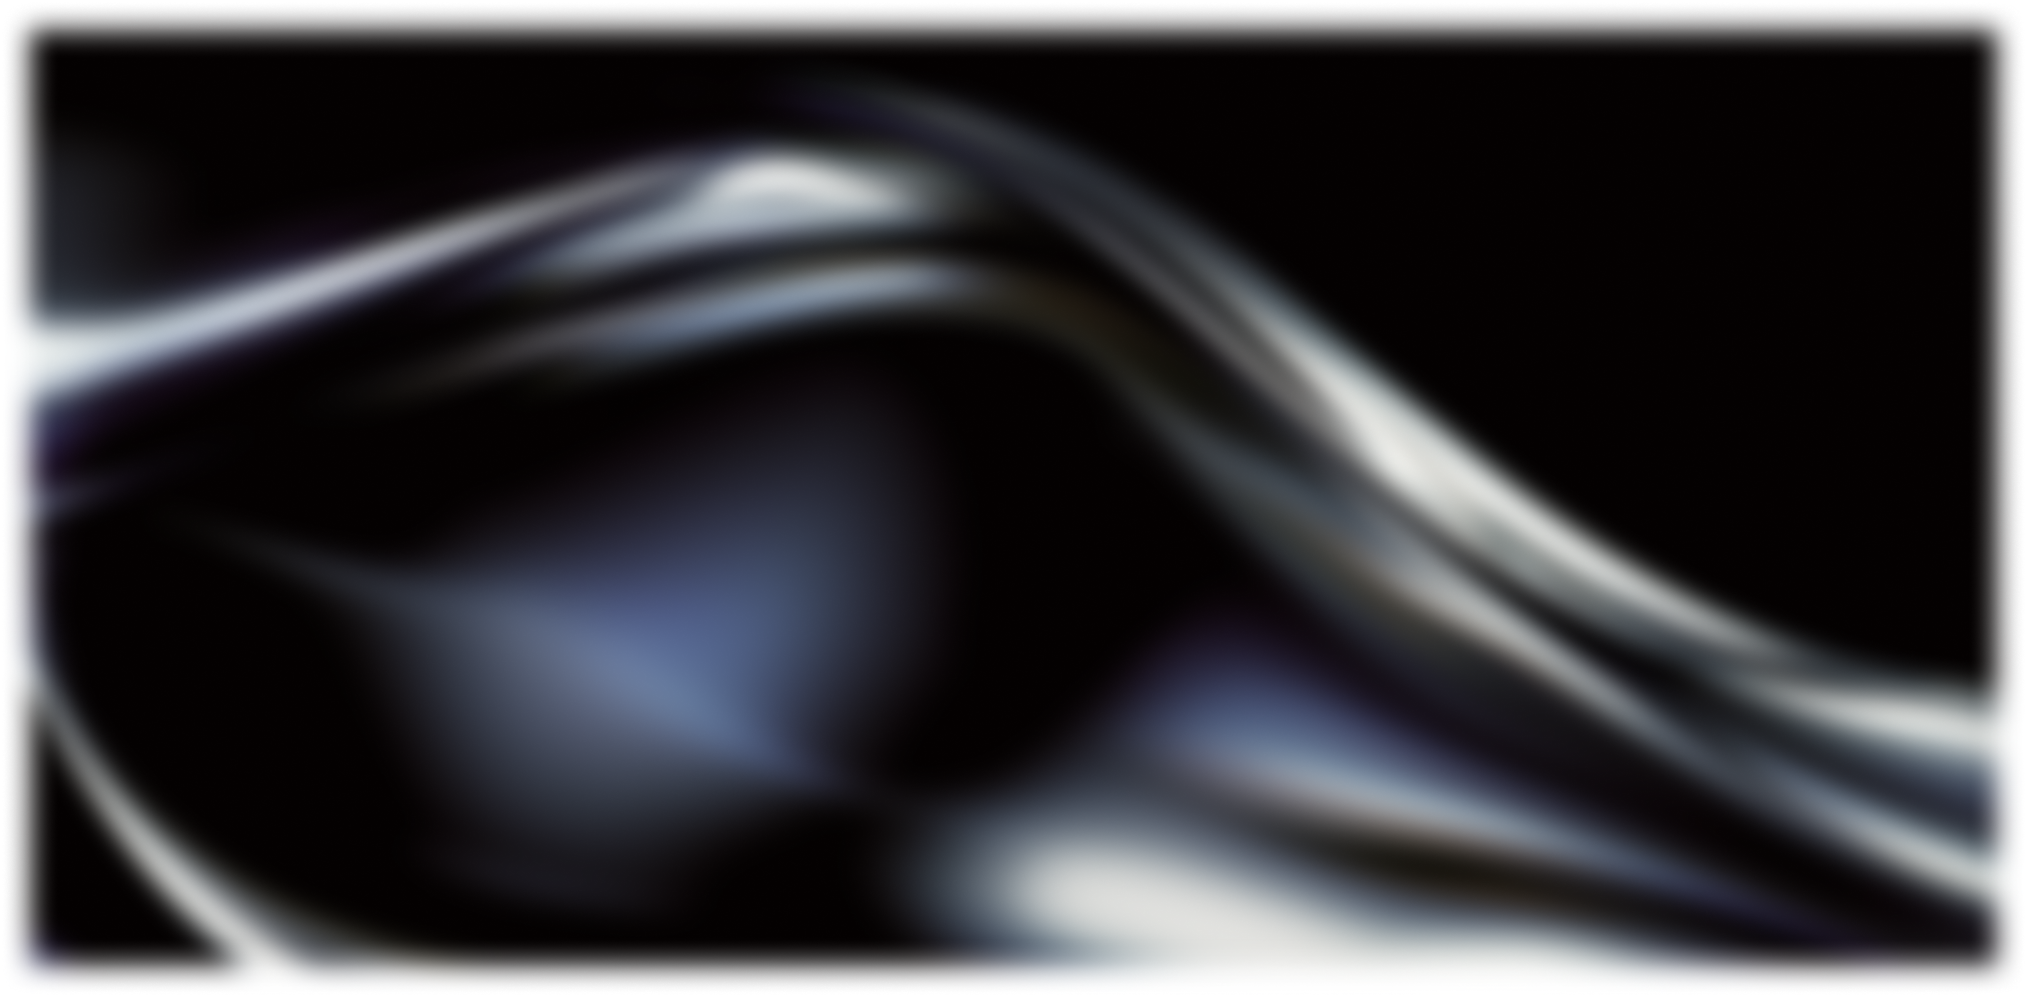
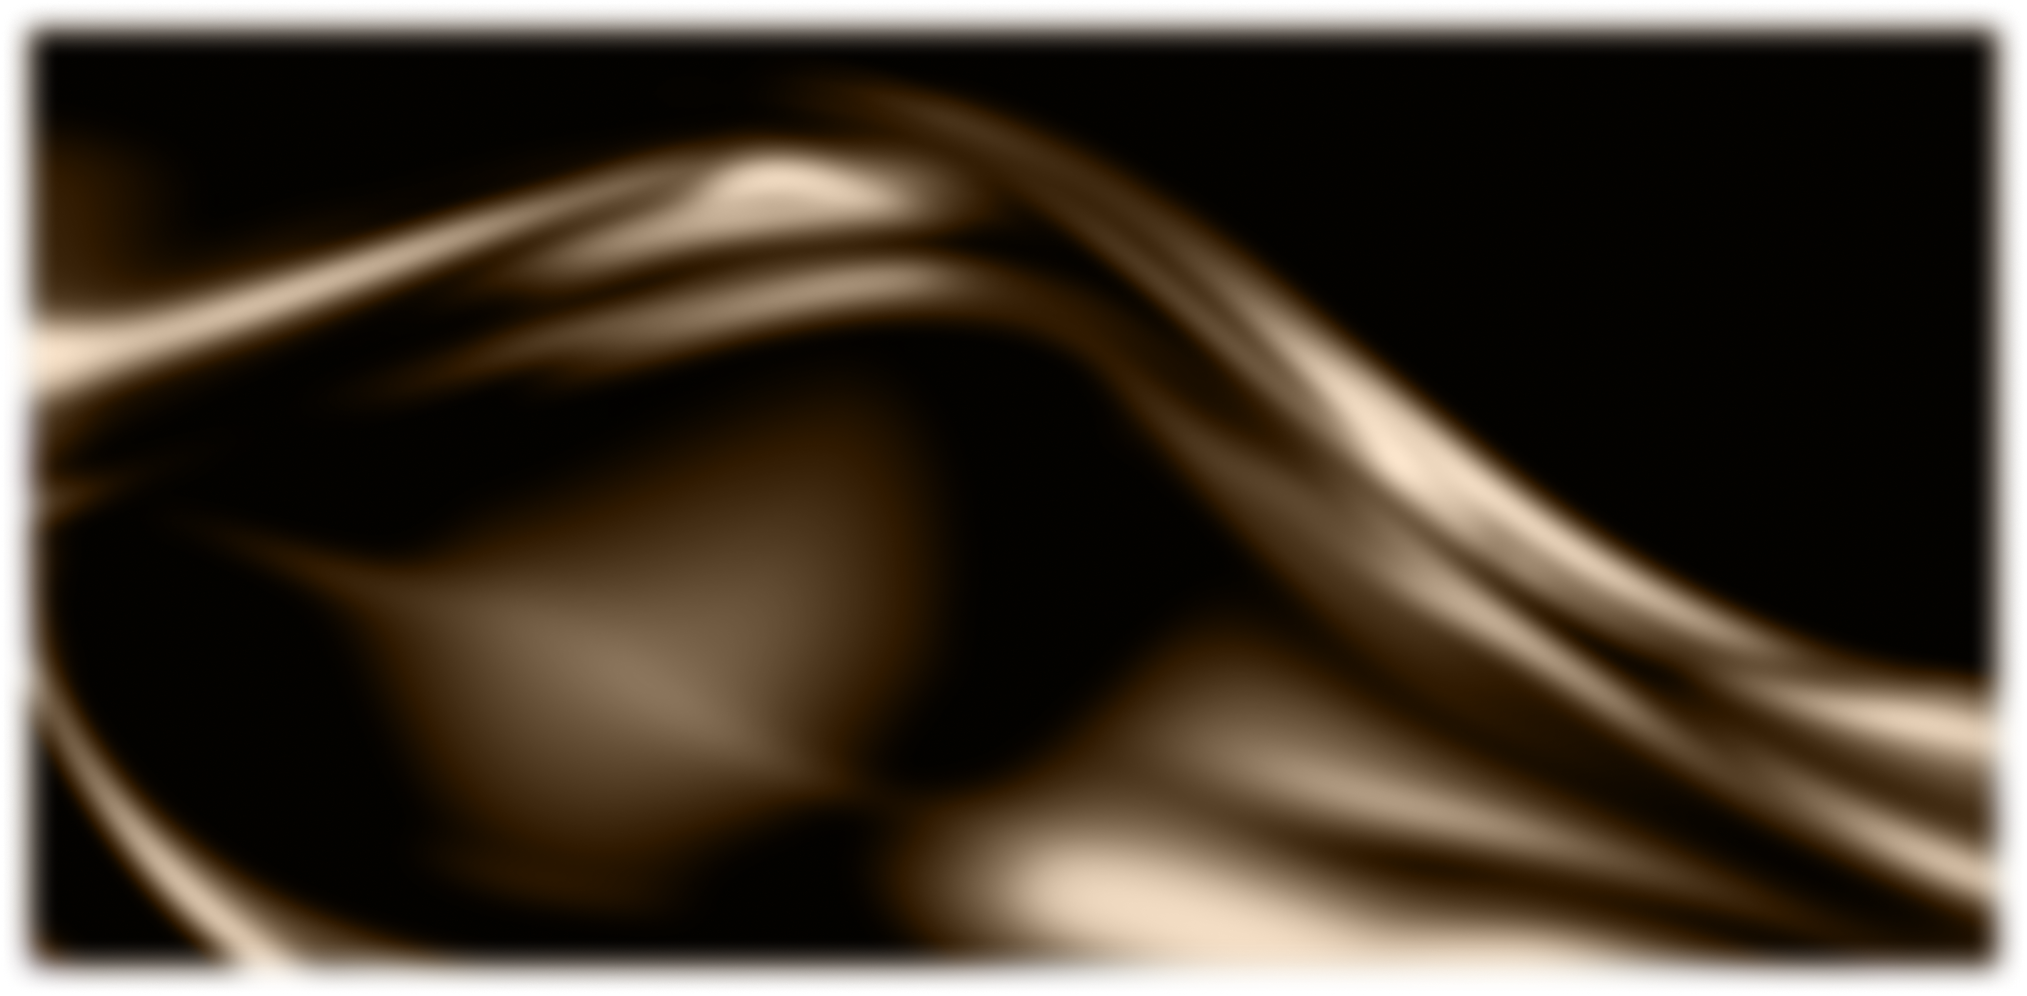
A touch of color , comment grain overlay

diff --git a/app/sections/Contact.jsx b/app/sections/Contact.jsx
@@ -42,7 +42,7 @@ const Contact = () => {
         className="sm:min-h-screen w-[95%] max-w-8xl mx-auto relative max-sm:px-4"
       >
         <div className="w-full flex flex-col items-center justify-center relative z-10">
-          <h2 className="text-5xl md:text-6xl lg:text-8xl font-medium sm:mb-14 mb-8 tracking-tighter text-center">
+          <h2 className="text-[#FFE9D0] text-5xl md:text-6xl lg:text-8xl font-medium sm:mb-14 mb-8 tracking-tighter text-center">
             Contact-me
           </h2>
 
@@ -61,9 +61,7 @@ const Contact = () => {
                   placeholder="your name"
                   {...register("fullName", { required: "Name is required" })}
                   className={`bg-white/6 backdrop-blur-md  rounded-full py-4 px-6 focus:outline-none text-white placeholder:text-white/30 ${
-                    errors.fullName
-                      ? "border border-red-500"
-                      : ""
+                    errors.fullName ? "border border-red-500" : ""
                   }`}
                 />
                 {errors.fullName && (
@@ -89,9 +87,7 @@ const Contact = () => {
                     },
                   })}
                   className={`bg-white/6 backdrop-blur-md  rounded-full py-4 px-6 focus:outline-none text-white placeholder:text-white/30 ${
-                    errors.email
-                      ? "border border-red-500"
-                      : ""
+                    errors.email ? "border border-red-500" : ""
                   }`}
                 />
                 {errors.email && (
@@ -111,9 +107,7 @@ const Contact = () => {
                   rows={5}
                   {...register("message", { required: "Message is required" })}
                   className={`bg-white/6 backdrop-blur-md  rounded-2xl py-4 px-6 focus:outline-none text-white placeholder:text-white/30 resize-none ${
-                    errors.message
-                      ? "border border-red-500"
-                      : ""
+                    errors.message ? "border border-red-500" : ""
                   }`}
                 />
                 {errors.message && (
@@ -127,7 +121,7 @@ const Contact = () => {
                 type="submit"
                 whileHover={{ scale: 1.05 }}
                 transition={{ duration: 0.2 }}
-                className="bg-white text-black py-3 px-10 rounded-full self-center mt-2  text-2xl w-full tracking-tighter"
+                className="bg-[#FFE9D0]  text-black py-3 px-10 rounded-full self-center mt-2  text-2xl w-full tracking-tighter"
                 disabled={isSubmitting}
               >
                 {isSubmitting ? "Sending..." : "Send Message"}

diff --git a/app/sections/Skills.jsx b/app/sections/Skills.jsx
@@ -10,24 +10,23 @@ export default function () {
       className={"sm:min-h-screen w-[95%] max-w-8xl mx-auto mt-30 relative"}
     >
       <div className="w-full flex flex-col items-end ">
-        <h2 className="text-5xl md:text-6xl lg:text-8xl font-medium sm:mb-10 mb-8 tracking-tighter">
+        <h2 className="text-[#FFE9D0]  text-5xl md:text-6xl lg:text-8xl font-medium sm:mb-10 mb-8 tracking-tighter">
           Skills & Tools
         </h2>
       </div>
       <div className="text-center w-full sm:mt-4 sm:mb-10 mb-8 ">
-        <h2 className="font-light sm:text-2xl text-xl">
+        <h2 className="text-[#FFE9D0]  font-light sm:text-2xl text-xl">
           Programming & Development
         </h2>
         <InfiniteScrollingLogosAnimation />
       </div>
       <div className="text-center w-full sm:mt-4 ">
-        <h2 className="font-light sm:text-2xl text-xl">UI/UX & Design</h2>
+        <h2 className="text-[#FFE9D0] font-light sm:text-2xl text-xl">
+          UI/UX & Design
+        </h2>
         <div className="flex flex-wrap justify-center items-center gap-8 lg:mt-16 md:mt-10 mt-8">
           {desLogos.map((elmt, idx) => (
-            <div
-              key={idx}
-              className=" bg-black cursor-pointer"
-            >
+            <div key={idx} className=" bg-black cursor-pointer">
               <img
                 src={elmt.icon}
                 name={elmt.name}

diff --git a/app/sections/Education.jsx b/app/sections/Education.jsx
@@ -39,14 +39,14 @@ const Education = () => {
       className={"sm:min-h-screen w-[95%] max-w-8xl mx-auto mt-30 relative"}
     >
       <div className="w-full flex flex-col items-center">
-        <h2 className="text-5xl md:text-6xl lg:text-8xl font-medium mb-16 tracking-tighter">
+        <h2 className="text-[#FFE9D0]  text-5xl md:text-6xl lg:text-8xl font-medium mb-16 tracking-tighter">
           Education
         </h2>
 
         <div className="grid grid-cols-1 md:grid-cols-2 lg:grid-cols-3 gap-x-8 sm:gap-y-16 gap-y-8 px-4">
           {educationData.map((item, index) => (
             <div key={index} className="flex flex-col">
-              <div className="bg-white text-black  px-2 py-1 mb-2 w-fit">
+              <div className="bg-white  text-black  px-2 py-1 mb-2 w-fit">
                 <span className="font-medium sm:text-lg">{item.degree}</span>
               </div>
               <h3 className="text-md font-light">{item.institution}</h3>

diff --git a/app/sections/Hero.jsx b/app/sections/Hero.jsx
@@ -42,7 +42,7 @@ export default function Hero() {
               src={images.light}
               className="absolute z-40 top-1/2 -translate-y-1/2 h-auto"
             />
-            <div className="sm:h-5 sm:w-5 w-3 h-3  bg-white rounded-full"></div>
+            <div className="sm:h-5 sm:w-5 w-3 h-3  bg-[#FFE9D0]  rounded-full"></div>
             <p className="text-[0.6rem] sm:text-lg font-light">
               Software Engineering Student at ENSA Agadir
             </p>
@@ -53,7 +53,7 @@ export default function Hero() {
                 Developer <span className="font-light">and</span>
                 <br />
               </span>
-              <span className="font-['Times_New_Roman'] italic font-bold">
+              <span className="font-['Times_New_Roman'] italic font-bold text-[#FFE9D0]">
                 Graphic Designer
               </span>
             </h1>

diff --git a/app/sections/Footer.jsx b/app/sections/Footer.jsx
@@ -9,7 +9,7 @@ const Footer = () => {
     <footer className="w-full bg-black text-white py-10 max-sm:mt-16">
       <div className="flex flex-col items-center justify-center gap-6">
         {/* Logo */}
-        <Link href={"#hero"} className="flex items-center justify-center"> 
+        <Link href={"#hero"} className="flex items-center justify-center">
           <img src="/logo.svg" alt="Zalmoxis Logo" className="h-18 md:h-24" />
         </Link>
 
@@ -47,7 +47,7 @@ const Footer = () => {
         </div>
 
         {/* Copyright */}
-        <p className="sm:text-lg text-md tracking-wide font-light text-center max-w-[70%] ">
+        <p className="text-[#FFE9D0] sm:text-lg text-md tracking-wide font-light text-center max-w-[70%] ">
           All rights reserved. © Copyright Zakaria Ahrbil{" "}
           {new Date().getFullYear()}.
         </p>

diff --git a/app/sections/About.jsx b/app/sections/About.jsx
@@ -34,7 +34,7 @@ const About = () => {
     >
       <div className="container mx-auto">
         <div className="flex flex-row md:items-start items-center justify-between mb-16">
-          <h2 className="text-5xl md:text-6xl lg:text-8xl font-medium mb-8 md:mb-0 tracking-tighter">
+          <h2 className="text-[#FFE9D0] text-5xl md:text-6xl lg:text-8xl font-medium mb-8 md:mb-0 tracking-tighter">
             About Me
           </h2>
 
@@ -70,7 +70,7 @@ const About = () => {
 
         {/* What Shapes My Work Section */}
         <div>
-          <h3 className="text-2xl md:text-4xl font-light mb-8 mt-12 tracking-tighter">
+          <h3 className="text-[#FFE9D0] text-2xl md:text-4xl font-light mb-8 mt-12 tracking-tighter">
             What shapes my work
           </h3>
           <div className="grid grid-cols-2 lg:grid-cols-4 gap-4 max-w-8xl">

diff --git a/app/sections/Posters.jsx b/app/sections/Posters.jsx
@@ -13,14 +13,17 @@ export default function () {
       className={"sm:min-h-screen w-[95%] max-w-8xl mx-auto mt-30 relative"}
     >
       <div className="w-full flex flex-col items-end ">
-        <h2 className="text-5xl md:text-6xl lg:text-8xl font-medium  tracking-tighter">
+        <h2 className="text-[#FFE9D0] text-5xl md:text-6xl lg:text-8xl font-medium  tracking-tighter">
           Posters
         </h2>
         <p className="text-sm sm:text-lg font-light pl-1 text-white/70 max-w-md">
           click to view the poster
         </p>
       </div>
-      <VerticalAnimatedPosters setPoster={setPoster} setIsModalOpen={setIsModalOpen} />
+      <VerticalAnimatedPosters
+        setPoster={setPoster}
+        setIsModalOpen={setIsModalOpen}
+      />
       <ImageModal
         isOpen={isModalOpen}
         src={poster}

diff --git a/app/sections/Des.jsx b/app/sections/Des.jsx
@@ -10,9 +10,9 @@ const Des = () => {
       id="design"
       className="sm:min-h-screen w-[95%] max-w-8xl mx-auto mt-30 relative "
     >
-        <AnimatedBackground2/>
+      <AnimatedBackground2 />
       <div className="w-full flex flex-col items-center sm:gap-4 gap-2 mb-8 sm:mb-16">
-        <h2 className="text-5xl md:text-6xl lg:text-8xl font-medium  tracking-tighter">
+        <h2 className="text-[#FFE9D0] text-5xl md:text-6xl lg:text-8xl font-medium  tracking-tighter">
           Design
         </h2>
         <p className="text-sm sm:text-lg font-light pl-1 text-white/70 max-w-md text-center">

diff --git a/app/sections/Dev.jsx b/app/sections/Dev.jsx
@@ -11,9 +11,9 @@ const Dev = () => {
       id="development"
       className="sm:min-h-screen w-[95%] max-w-8xl mx-auto mt-30 relative "
     >
-        <AnimatedBackground/>
+      <AnimatedBackground />
       <div className="w-full flex flex-col sm:gap-4 gap-2 mb-8 sm:mb-16">
-        <h2 className="text-5xl md:text-6xl lg:text-8xl font-medium  tracking-tighter">
+        <h2 className="text-[#FFE9D0] text-5xl md:text-6xl lg:text-8xl font-medium  tracking-tighter">
           Development
         </h2>
         <p className="text-sm sm:text-lg font-light pl-1 text-white/70 max-w-md">

diff --git a/components/SeeMyWork.jsx b/components/SeeMyWork.jsx
@@ -10,7 +10,7 @@ export default function SeeMyWork() {
       transition={{ duration: 0.2 }}
       className="p-[0.06rem] bg-gradient-to-b from-[#ffffff] to-[#2D2D2D] rounded-full max-sm:mt-2 "
     >
-      <Link href={"#projects"}>
+      <Link href={"#development"}>
         <div className="flex items-center justify-center sm:px-8 sm:py-4 px-4 py-2  bg-[#191919]  rounded-full sm:gap-4 gap-2">
           <p className=" font-light sm:text-2xl tracking-wider leading-none ">
             See <span className="font-bold">My Work</span>

diff --git a/components/Shape.jsx b/components/Shape.jsx
@@ -3,7 +3,7 @@ import React from "react";
 export default function Shape({ svg, text }) {
   return (
     <div className="max-w-lg bg-gradient-to-b from-white/20 to-black rounded-lg py-4 sm:px-6 px-2 space-y-4 sm:space-y-6 overflow-hidden  ">
-      <img src={svg} className="sm:w-24 sm:h-24 w-16 h-16" alt="Shape" />
+      <img src={svg} className={`sm:w-24 sm:h-24 w-16 h-16 `} alt="Shape" />
       <p className="text-sm max-sm:text-[0.6rem] font-light max-w-[18rem]">
         {text}
       </p>

diff --git a/app/page.jsx b/app/page.jsx
@@ -32,11 +32,11 @@ export default function Home() {
 
   return (
     <div className="flex flex-col items-start justify-start min-h-screen bg-black w-full relative">
-      <img
+      {/* <img
         src={images.grain}
         className="absolute inset-0 object-cover w-full h-full z-80 mix-blend-overlay opacity-70 pointer-events-none"
       />
-      <Menu />
+      <Menu /> */}
 
       <main className="w-full relative overflow-hidden">
         <Hero />
